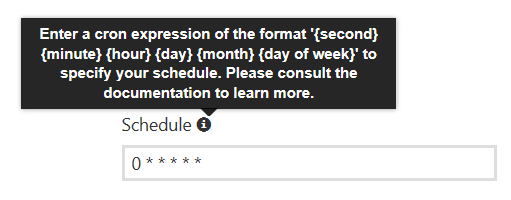
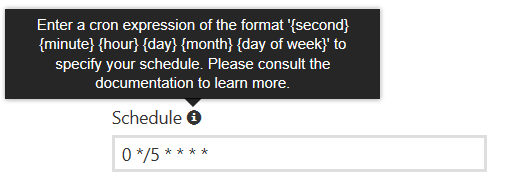
ob3-step1

Changed region(s): [[0.0, 0.0269, 0.7988, 0.672], [0.2071, 0.7258, 0.9763, 0.9409]]

diff --git a/AzureFunctions/readme.md b/AzureFunctions/readme.md
@@ -60,15 +60,15 @@ Since the Azure Functions quickstarts contain functional code, you can immediate
 
 	![](images/function-app-portal-create-settings.png)
 
-1. The function app should be deployed in a minute or less. Select **Timer** and **C#** and click the **Create this function** button.
+1. The function app should be deployed in a minute or less. From the resource group overview, select the function app. Select **Timer** and **C#** and click the **Create this function** button. Select "Skip the tour and start coding" when the code window opens.
 
 	![](images/function-app-timer-csharp.png)
 
-1. Click on the ##Integrate## tab on the left to view the Timer settings. The default timer schedule is set to run the function once a minute, since the cron expression will match whenever the current second value is equal to zero
+1. Click on the **Integrate** item in the tree view to view the Timer settings. The default timer schedule is set to run the function once every 5 minutes, since the cron expression will match whenever the current minute value is equal to 5.
  
 	![](images/function-app-timer-cron-default.png)
 
-1. Change this *cron expression* value to run every 5 seconds by changing the first value from `0` to `*/5` (as shown below) and clicking the **Save** button.
+1. Change this *cron expression* value to run every 5 seconds by changing the first value from `0` to `*/5`, and the second value from `*/5` to `*` (as shown below) and clicking the **Save** button.
 
 	![](images/function-app-timer-cron-updated.png)
 
